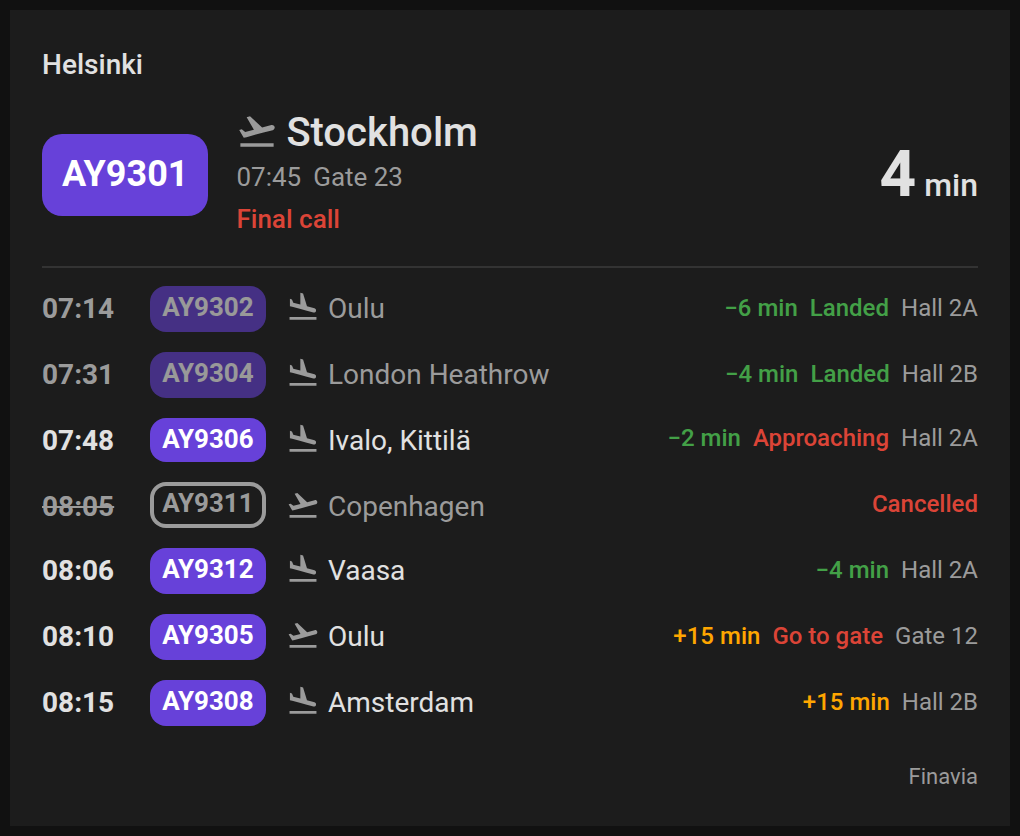
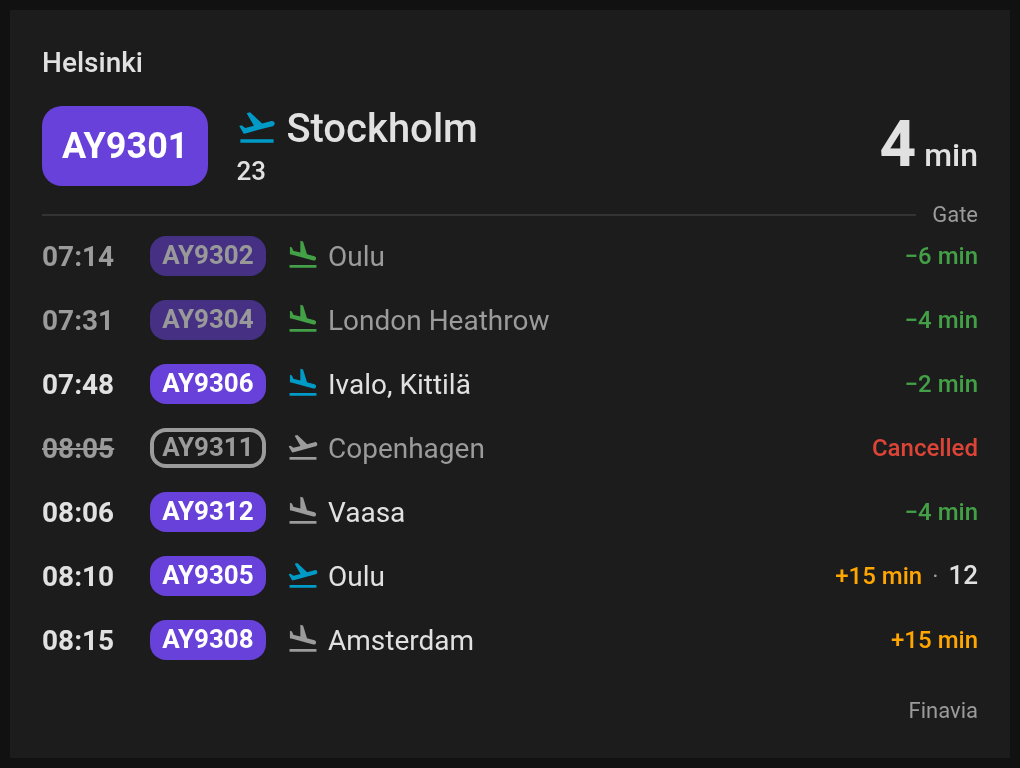
Retake the screenshots with departures-card 2.0.0

diff --git a/README.md b/README.md
@@ -4,8 +4,8 @@ Home Assistant integration that turns the departures and arrivals at Finavia's a
 
 [![GitHub Release][releases-shield]][releases] [![GitHub Release Date][release-date-shield]][releases] [![Downloads][downloads-shield]][releases] [![Marketplace][marketplace-shield]][marketplace] [![License][license-shield]](LICENSE)
 
-<img src="https://raw.githubusercontent.com/jesmak/finavia_flights/main/docs/images/dashboard-light.png#gh-light-mode-only" width="1032" alt="An airport's departures and arrivals side by side on two departure boards, the next flight of each large with its countdown, a cancelled departure, two landed arrivals dimmed with their baggage halls, and one approaching">
-<img src="https://raw.githubusercontent.com/jesmak/finavia_flights/main/docs/images/dashboard-dark.png#gh-dark-mode-only" width="1032" alt="An airport's departures and arrivals side by side on two departure boards, the next flight of each large with its countdown, a cancelled departure, two landed arrivals dimmed with their baggage halls, and one approaching">
+<img src="https://raw.githubusercontent.com/jesmak/finavia_flights/main/docs/images/dashboard-light.png#gh-light-mode-only" width="1032" alt="An airport's departures and arrivals side by side on two departure boards, the next flight of each large with its countdown, a cancelled departure, two landed arrivals dimmed, and each flight's delay and gate at the end of its line">
+<img src="https://raw.githubusercontent.com/jesmak/finavia_flights/main/docs/images/dashboard-dark.png#gh-dark-mode-only" width="1032" alt="An airport's departures and arrivals side by side on two departure boards, the next flight of each large with its countdown, a cancelled departure, two landed arrivals dimmed, and each flight's delay and gate at the end of its line">
 
 ## What is it?
 
